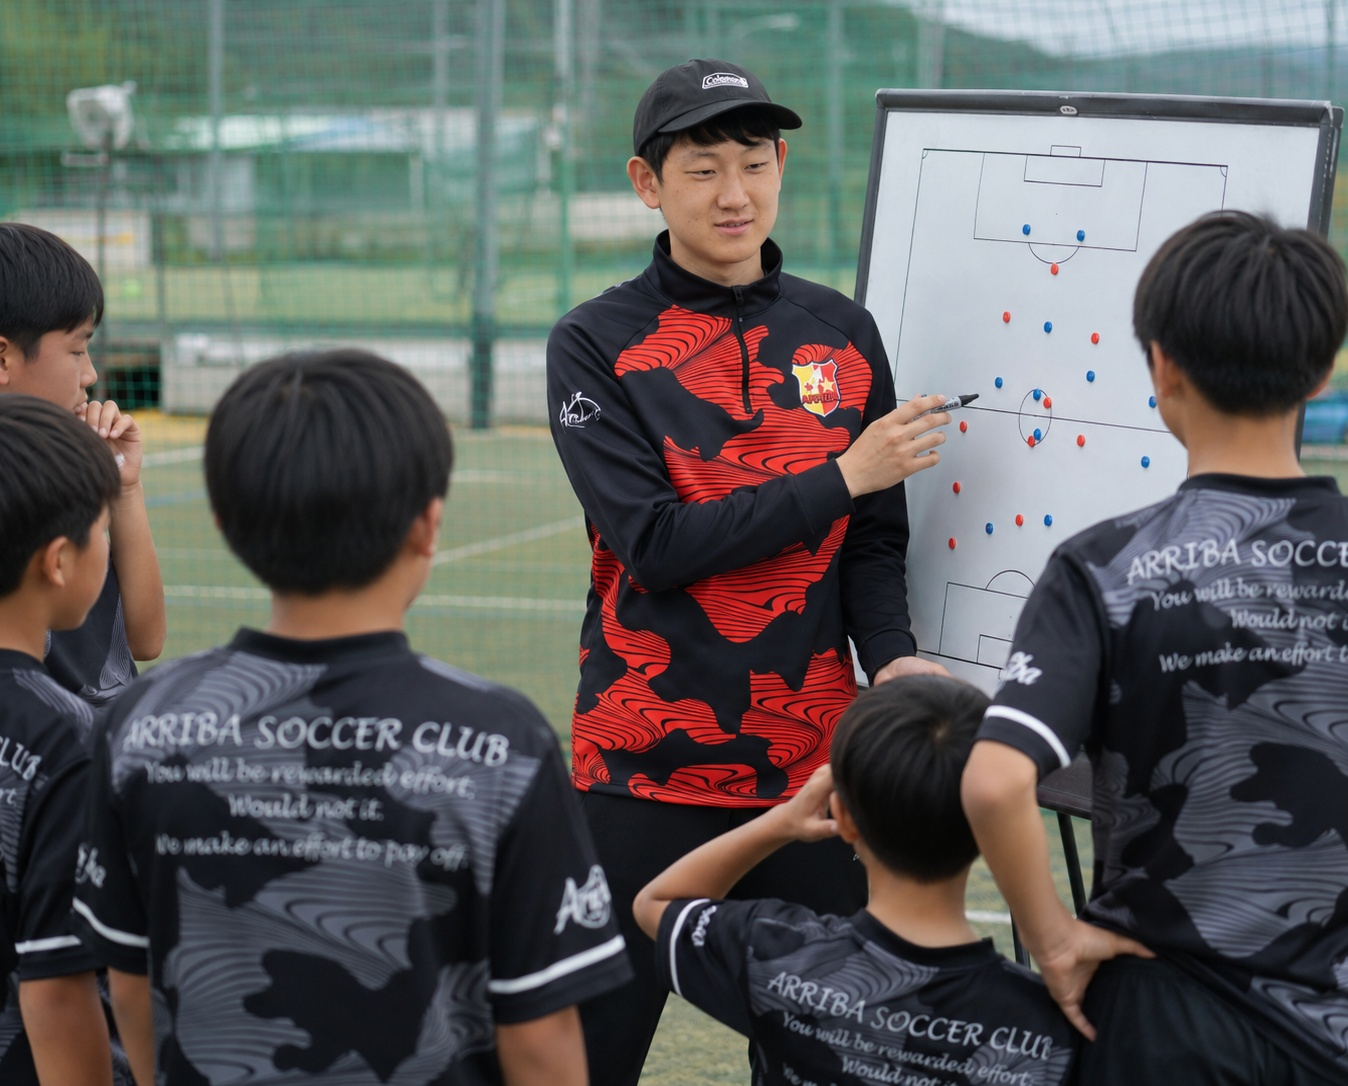
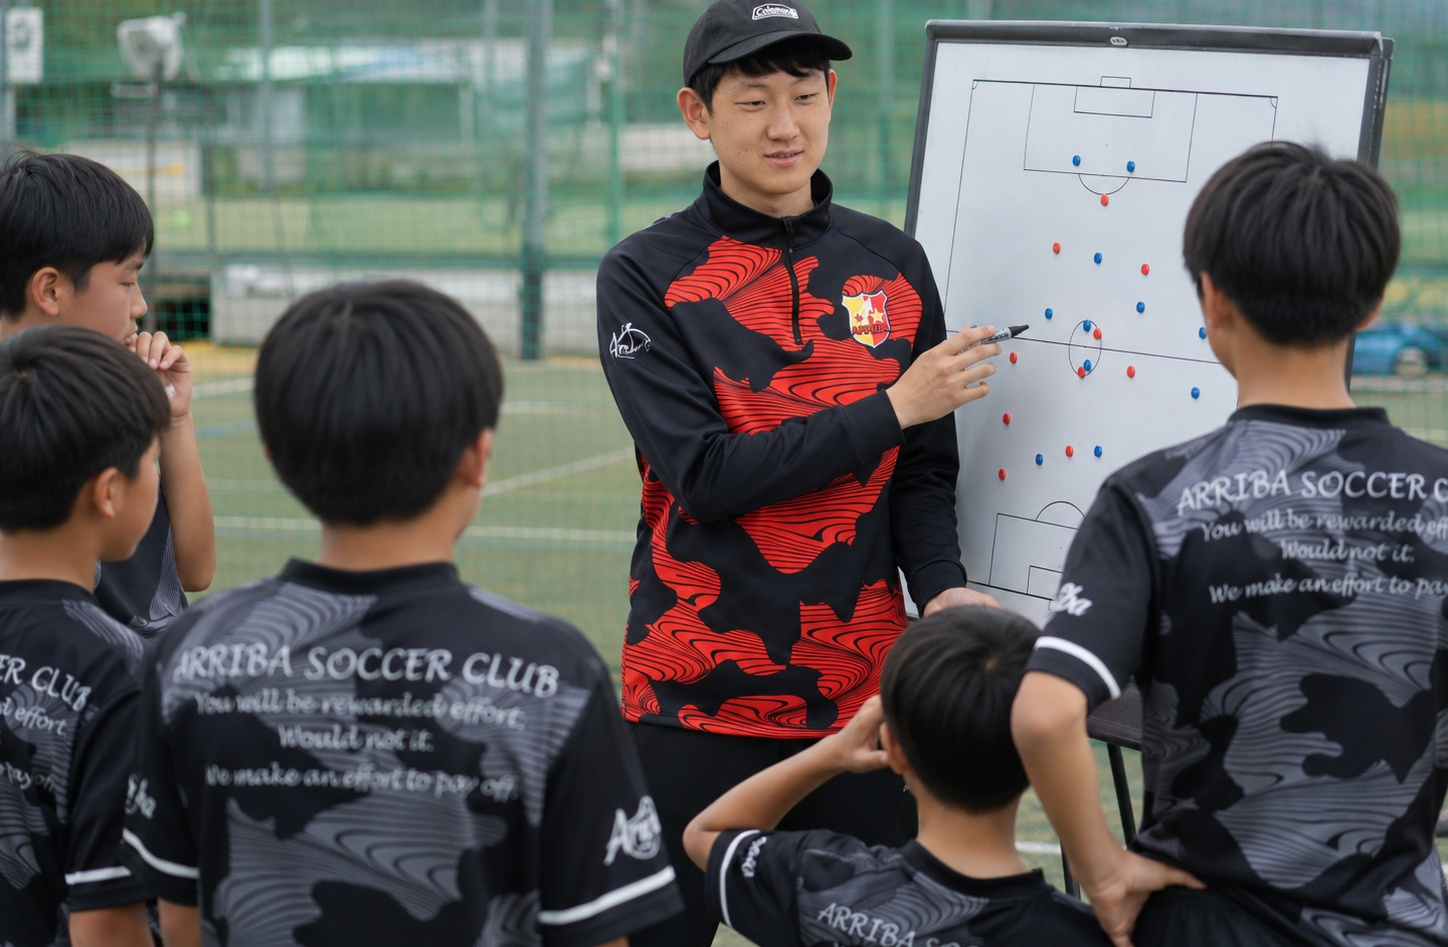
Correct career photo to spec list image 8

diff --git a/index.html b/index.html
@@ -239,7 +239,7 @@
           <a class="btn btn-secondary" href="#trial">体験で相談する</a>
         </div>
       </div>
-      <figure class="career-photo" data-animate="slideRight"><img src="./assets/img/career.jpg?v=20260517-spec-photo" alt="作戦ボードを使って選手に説明するコーチ"></figure>
+      <figure class="career-photo" data-animate="slideRight"><img src="./assets/img/career.jpg?v=20260517-photo8" alt="作戦ボードを使って選手に説明するコーチ"></figure>
     </section>
 
     <nav class="mini-nav" aria-label="進路実績関連リンク">
@@ -445,7 +445,7 @@
   <div class="modal" id="modal-career" role="dialog" aria-modal="true" aria-labelledby="modal-career-title">
     <div class="modal-panel">
       <button class="modal-back modal-close" type="button">← ページに戻る</button>
-      <img src="./assets/img/career.jpg?v=20260517-spec-photo" alt="">
+      <img src="./assets/img/career.jpg?v=20260517-photo8" alt="">
       <div class="modal-body">
         <h2 id="modal-career-title">進路・合格実績</h2>
         <p>学校ではありませんので進路は自分で決めることになります。ただし高校でもサッカーを続けたい選手には、高校側と連携をとり、入学までサポートします。</p>
